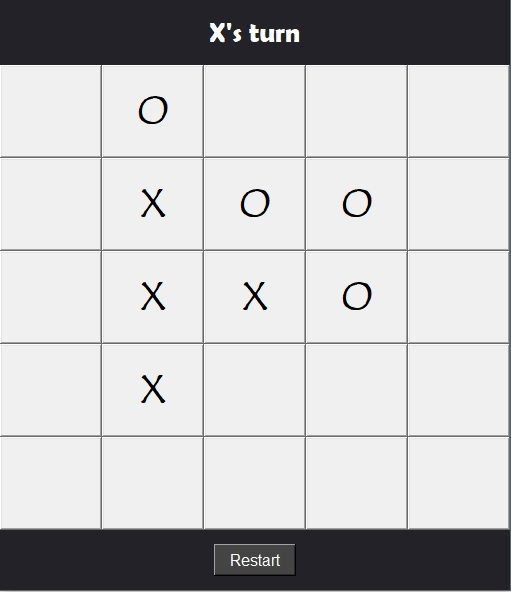
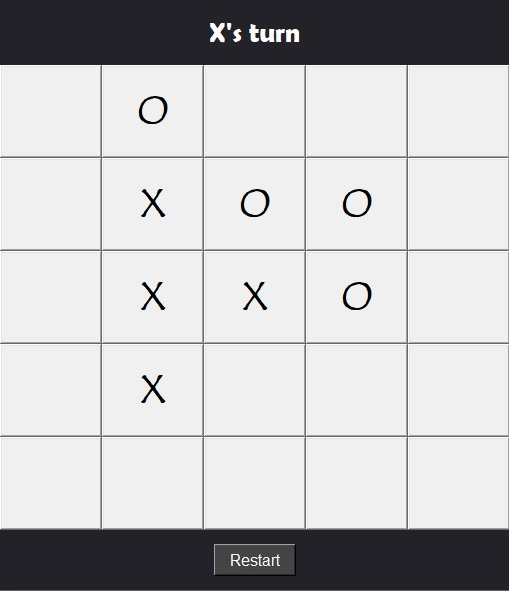
Format README.md demo image

diff --git a/README.md b/README.md
@@ -4,7 +4,7 @@ It's like regular Tic Tac Toe, except it's played on a 5x5 board and you need
 4 in a row to win the game.
 
 <p align="center">
-    <img src="res/demo.jpg" alt="Demo image" width="300" />
+    <img src="res/demo.jpg" alt="Demo image" width="300" style="border: 2px inset grey; box-shadow: 0 0 20px #0004;" />
 </p>
 
 I wasted a lot of time playing this on paper with my friends during high school 
